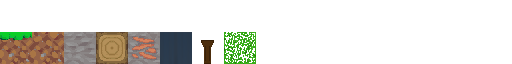
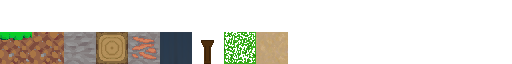
Added Sand Block
- Sand texture by Lyxo

Changed region(s): [[0.5, 0.5, 0.5625, 1.0]]

diff --git a/Assets/Scripts/Items/Sandblock_Item.cs b/Assets/Scripts/Items/Sandblock_Item.cs
@@ -1,0 +1,26 @@
+using System.Collections;
+using System.Collections.Generic;
+using UnityEngine;
+
+public class Sandblock_Item : Item, IPlaceable
+{
+    public ushort placeableBlockID {get; set;}
+
+    public Sandblock_Item(){
+        this.SetName("Sand Block");
+        this.SetDescription("Taken straight from a beach or something");
+        this.SetID(ItemID.SANDBLOCK);
+        this.SetIconID(8, 0);
+        this.SetStackSize(50);
+        this.SetPrice(3);
+        this.SetPriceVar(2);
+        this.SetAspects(new Dictionary<ThaumicAspect, byte>(){{ThaumicAspect.Terra, 1}, {ThaumicAspect.Perditio, 1}});
+        this.SetTags(new List<ItemTag>(){ItemTag.Placeable});
+        this.SetDurability(false);
+        this.placeableBlockID = 8;
+    }
+
+    public override int Use(){
+        return this.placeableBlockID;
+    }
+}

diff --git a/Assets/Scripts/Blocks.cs b/Assets/Scripts/Blocks.cs
@@ -5,10 +5,10 @@ using UnityEngine;
 
 public abstract class Blocks
 {
-	public static readonly int blockCount = 8;
+	public static readonly int blockCount = 9;
 	public static readonly int pixelSize = 32;
 	public static readonly int atlasSizeX = 8;
-	public static readonly int atlasSizeY = 1;
+	public static readonly int atlasSizeY = 2;
 	public static readonly int transparentAtlasSizeX = 8;
 	public static readonly int transparentAtlasSizeY = 4;
 
@@ -54,6 +54,8 @@ public abstract class Blocks
 			return new Water_Block();
 		else if(blockID == 7)
 			return new Leaf_Block();
+		else if(blockID == 8)
+			return new Sand_Block();
 		else
 			return new Air_Block();
 			

diff --git a/Assets/Scripts/WorldGenerator.cs b/Assets/Scripts/WorldGenerator.cs
@@ -503,7 +503,7 @@ public struct GenerateChunkJob: IJob{
                             blockData[x*Chunk.chunkWidth*Chunk.chunkDepth+y*Chunk.chunkWidth+z] = 0;
                     } 
                     else
-                        blockData[x*Chunk.chunkWidth*Chunk.chunkDepth+y*Chunk.chunkWidth+z] = 3;                        
+                        blockData[x*Chunk.chunkWidth*Chunk.chunkDepth+y*Chunk.chunkWidth+z] = 8;                        
                 }
             }
         } 

diff --git a/Assets/Scripts/Blocks/Sand_Block.cs b/Assets/Scripts/Blocks/Sand_Block.cs
@@ -1,0 +1,19 @@
+using System.Collections;
+using System.Collections.Generic;
+using UnityEngine;
+
+public class Sand_Block : Blocks
+{
+    public Sand_Block(){
+        this.name = "Sand";
+        this.solid = true;
+        this.transparent = 0;
+        this.invisible = false;
+        this.liquid = false;
+        this.affectLight = true;
+
+        this.tileTop = 8;
+        this.tileSide = 8;
+        this.tileBottom = 8;    
+    }
+}

diff --git a/Assets/Scripts/ItemID.cs b/Assets/Scripts/ItemID.cs
@@ -8,5 +8,6 @@ public enum ItemID : ushort {
 	METALBLOCK,
 	WATERBLOCK,
 	TORCH,
-	LEAFBLOCK
+	LEAFBLOCK,
+	SANDBLOCK
 }
